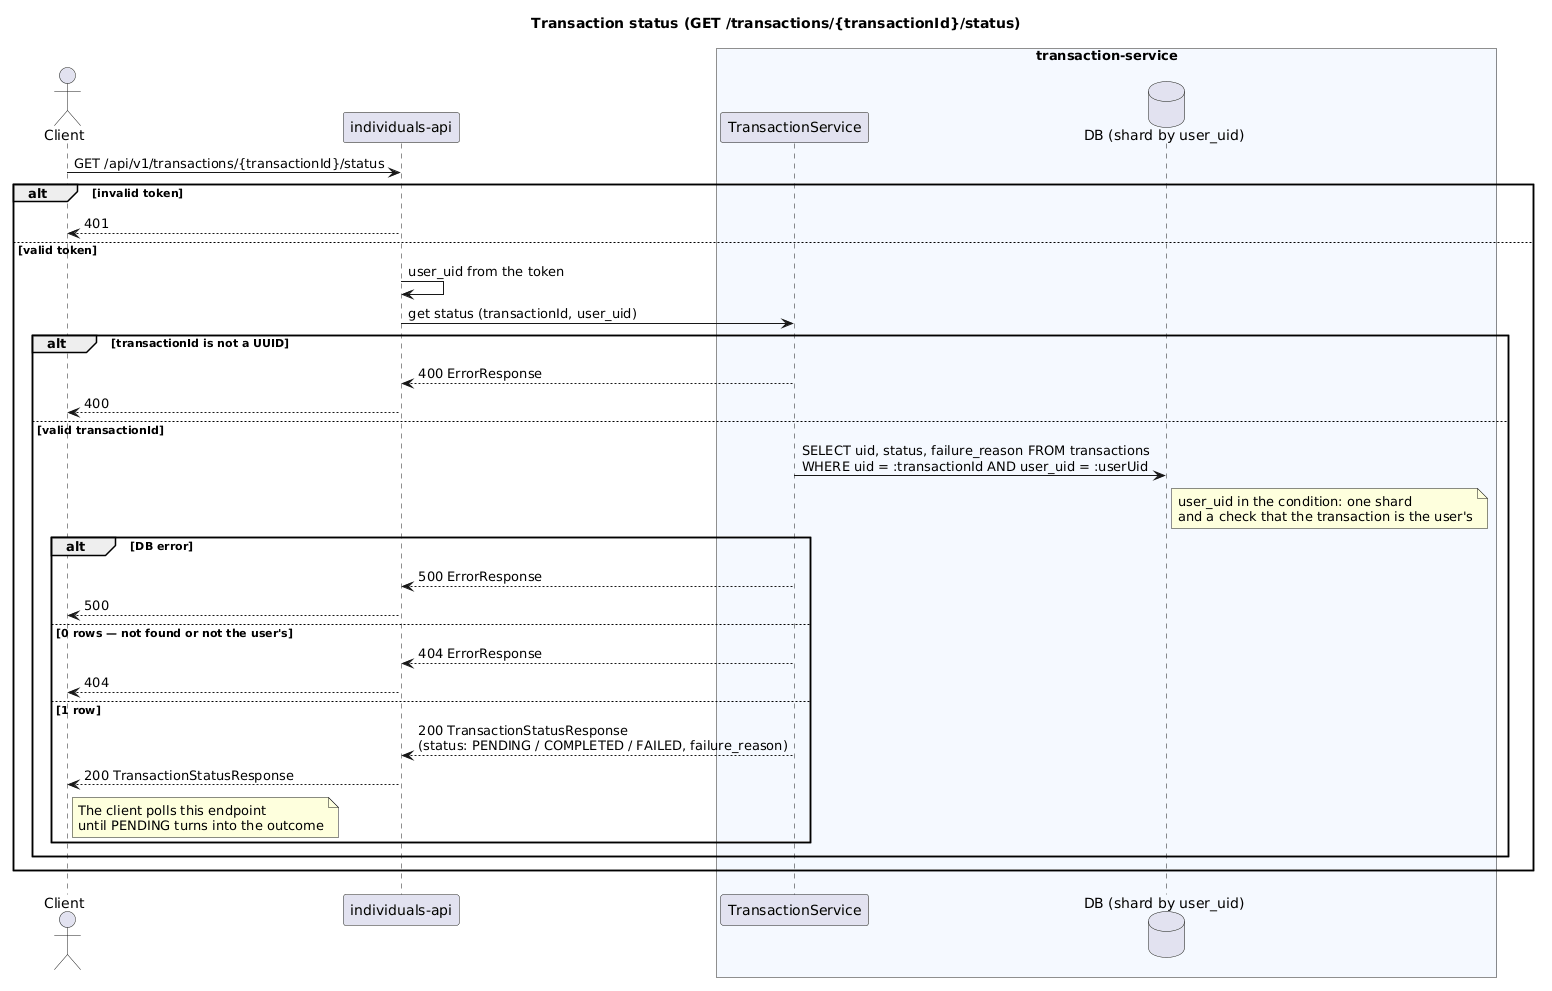
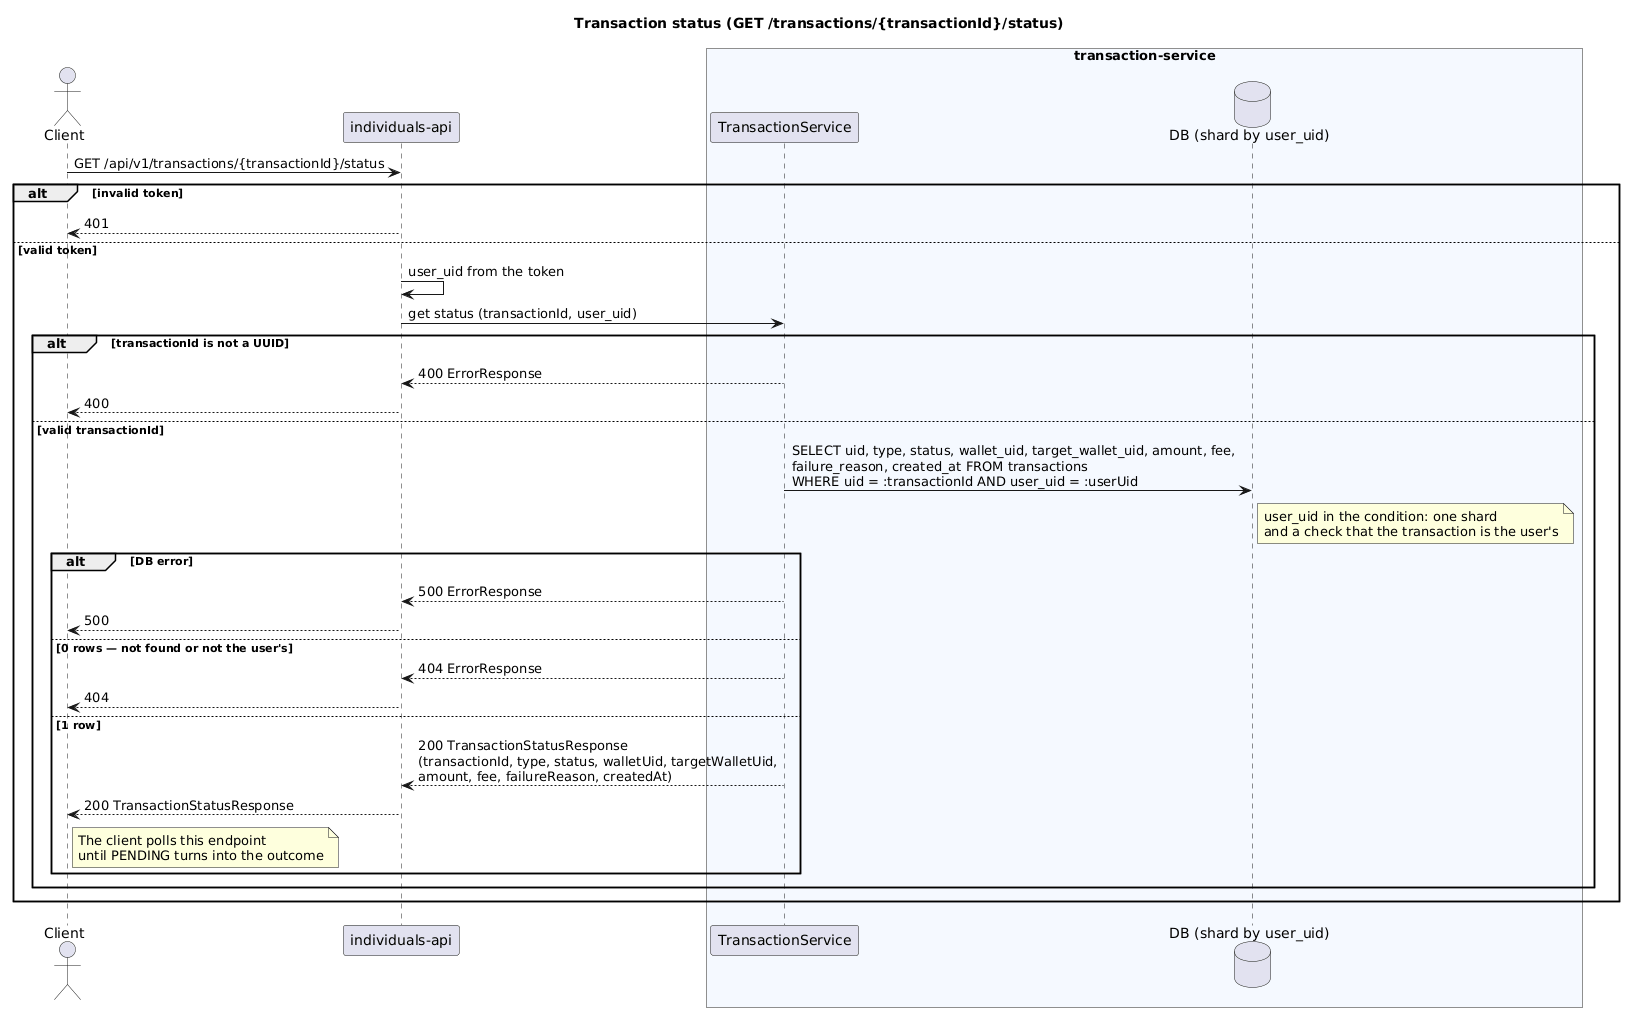
docs: record module 3 decisions in CONTEXT and README

diff --git a/CONTEXT.md b/CONTEXT.md
@@ -628,7 +628,7 @@ payment-platform/              a Git root, NOT a Gradle project
 ├── individuals-api/           the orchestrator; its C4 diagrams in diagrams-c4/
 ├── person-service/            the individual aggregate; also publishes person-service-client -> Nexus
 │                              its C4 diagrams in diagrams-c4/
-└── transaction-service/       wallets and transactions (module 3); a skeleton so far
+└── transaction-service/       wallets and transactions (module 3); its C4 diagrams in diagrams-c4/
 ```
 
 Each module is an independent Gradle build: its own `settings.gradle.kts`,
@@ -1217,6 +1217,95 @@ The API never frees it - that is a deliberate support action.
 - [ ] Your full manual test of the application
 - [ ] Decide the commits and the branches they go to, then push and open the PR
       `module-2-person-service` -> `main`
+
+---
+
+## 8b. Progress — module 3 (transaction-service)
+
+Wallets and their transactions: deposit, transfer, withdrawal. Branch
+`module-3-transaction-service`, PR #2. The teacher approved the design
+(C4 diagrams in `transaction-service/diagrams-c4/`) on 2026-10-22; the code
+follows the sequence diagrams step by step, and a question that comes up
+while coding is decided before it is coded. The next push carries working code.
+
+### Agreed deviations from the module 3 handout
+
+| Handout | Here | Why |
+|---|---|---|
+| Wallets Service is a separate service with its own database (`WalletServiceClient`) | wallets live inside transaction-service, one database | the debit, the transaction row and the event commit in one database transaction |
+| withdrawal: debit, then a separate `PENDING` write | one database transaction: lock the wallet, debit, `PENDING`, event | a crash between two steps would leave money debited with no transaction |
+| confirm writes `PENDING`, then sends to Kafka | the event is written to the table `transaction_events` in the same transaction; `TransactionKafkaProducer` sends it to Kafka | the database and Kafka cannot be written atomically |
+| `DepositCompleted` has no sender | Fake Payment Provider stands in for the external provider: reads `*Requested`, answers `*Completed` or `*Failed` | without it no answer comes and the operation never ends |
+| no failure event for a deposit | `DepositFailed` → `FAILED`, the balance does not change | otherwise a failed deposit stays `PENDING` forever |
+| provider answers carry no `userId` | they carry `userId` from the request | the shard is chosen by `user_uid`: one query to one shard |
+| events in JSON, amounts as `100.0` | Avro + Schema Registry, amounts as `decimal` | the registry refuses an incompatible schema; floating point rounds money |
+| `init` and `confirm` are not linked | `init` returns a `requestId` (stores nothing), the client sends it in `confirm`, which stores it in `transactions.request_id`, unique per `user_uid` | links the two requests in traces and logs; a repeated `confirm` returns the existing transaction instead of a second debit |
+| `userUid` comes from the client (`/wallets/user/{userUid}`, `?userUid=`) | individuals-api fills it from the token; every other operation gets it in the header `X-User-Uid` | otherwise anyone could read others' wallets; the path already holds `walletUid` / `transactionId`, a GET has no body |
+| one path `/transactions/{type}/init` (and `/confirm`) with a `oneOf` body | six paths `/transactions/{deposit,withdrawal,transfer}/{init,confirm}`, each with its own body | the same URLs for the client; different operations are not mixed, each body has its own class and its own validation |
+| `/transactions/{transactionId}/confirm` in the list of functions | `/transactions/{type}/confirm`, as in the contract | `init` creates nothing, so there is no `transactionId` before `confirm` |
+| Feign client in individuals-api | the generated reactive `transaction-service-client`, as `person-service-client` | individuals-api is WebFlux, Feign would block the event loop |
+| ShardingSphere Spring Boot Starter | ShardingSphere-JDBC as the driver (`ShardingSphereDriver` + YAML rules) | the starter was removed in ShardingSphere 5.3 |
+| `client/KafkaProducer`, `client/KafkaConsumer` | `client/TransactionKafkaProducer`, `client/TransactionKafkaConsumer` | Kafka's own classes share those names |
+| port 8082 | 8084 | 8082 is person-service, 8083 is Nexus |
+| transfer between any wallets | transfer between wallets of one user (one shard, one ACID transaction) | the question of transfers between users is with the teacher (saga or XA) |
+
+### Decisions
+
+| Decision | Value |
+|---|---|
+| Web stack | Spring MVC, Spring Data JPA with Hibernate, over ShardingSphere-JDBC - blocking, like person-service. Only the generated `transaction-service-client` is reactive: it runs in individuals-api, never in transaction-service |
+| Sharding | 2 shards, key `user_uid` (`HASH_MOD`); `wallets`, `transactions`, `transaction_events` by `user_uid`, `wallet_types` copied to every shard. Every query carries `user_uid`, except the producer's scan of unsent events, which reads both shards on purpose |
+| Delivery | at-least-once. `TransactionKafkaProducer` (`@Scheduled`) reads `transaction_events WHERE sent_at IS NULL`, sets `sent_at` only after the broker acknowledges, leaves it `NULL` on a failure so the next run retries. The word "outbox" is not used in names |
+| Finalization | `TransactionKafkaConsumer` → `TransactionService.finalize(transactionId, userId)` in one transaction: `UPDATE transactions … WHERE status = 'PENDING'`; 1 row - first processing (deposit credits, failed withdrawal returns `amount + fee`); 0 rows - a repeat (log INFO, nothing changes) or an unknown transaction (exception). An exception → rollback, retry with a pause (`DefaultErrorHandler`), then the DLT |
+| Idempotency of confirm | the first statement of the confirm transaction claims the `requestId`: `INSERT … 'PENDING', :requestId ON CONFLICT (user_uid, request_id) DO NOTHING RETURNING uid`. 1 row - this request owns it; 0 rows - a repeat: same parameters → `200` with the existing transaction and its status, other parameters → `409`. A concurrent second INSERT waits for the first transaction; a rollback frees the `requestId`. ShardingSphere 5.5.3 parses the statement; the concurrent case is still to be checked on the running shards |
+| Request validation | `@Valid` in the controller, before any database transaction: required fields, UUIDs, `amount > 0` with at most 2 decimals; for a transfer `walletUid ≠ targetWalletUid`. Failure → `400`, nothing written |
+| Fee and balance | the fee is computed after the wallet is read and before the check `balance < amount + fee` → `400`, in init and again in confirm (the init terms are not trusted). `fee` is `NULL` on insert and set by `UPDATE` in the same transaction |
+| Locks | confirm of a withdrawal and a transfer reads the wallet(s) `FOR UPDATE`; a transfer locks both in `ORDER BY uid`, so two opposite transfers never deadlock. `FOR UPDATE` guards different operations on one wallet, `requestId` guards repeats of the same one |
+| Balance | never negative: `amount > 0`, the check after the fee, the lock. A `CHECK (balance >= 0)` in the migration as the last guard |
+| Deposit | no balance check; the provider's refusal (not enough on the card, the bank refused) → `DepositFailed` |
+| Soft delete | every wallet read carries `archived_at IS NULL` |
+| Failures | a database error at any step → rollback, `500`, nothing written. A response lost after the commit → the client repeats confirm with the same `requestId` → `200` with the same transaction |
+| Errors | RFC 9457 body with `timestamp`, `error`, `traceId`, `details`, as person-service |
+
+### Contract
+
+`transaction-service/openapi/transaction-service.yaml`, generated with the same
+plugin and settings as person-service: server interfaces `WalletsApi`,
+`TransactionsApi` (implemented by `WalletRestControllerV1`,
+`TransactionRestControllerV1`) and the reactive `transaction-service-client`.
+Avro classes of the events come from `.avsc` files in a later step.
+
+| Item | Value |
+|---|---|
+| DTO names | exactly the handout's, no `Dto` suffix: `CreateWalletRequest`, `WalletResponse`, `DepositInitRequest`, `WithdrawalInitRequest`, `TransferInitRequest`, `TransactionInitResponse`, `DepositConfirmRequest`, `WithdrawalConfirmRequest`, `TransferConfirmRequest`, `TransactionConfirmResponse`, `TransactionStatusResponse`, `ErrorResponse` |
+| `TransactionInitResponse` | `amount`, `fee`, `total`, `requestId` |
+| `TransactionConfirmResponse` | `transactionId`, `status` |
+| `TransactionStatusResponse` | the same in the status and in the search: `transactionId`, `type`, `status`, `walletUid`, `targetWalletUid`, `amount`, `fee`, `failureReason`, `createdAt` |
+| `amount` checks | `> 0` from `exclusiveMinimum`; at most 2 decimals - the standard `@Digits(fraction = 2)` put on the field through `x-field-extra-annotation` |
+| `walletUid ≠ targetWalletUid` | our own class-level `@DifferentWallets` with a `ConstraintValidator` in the `validation` package, put on `TransferInitRequest` and `TransferConfirmRequest` through `x-class-extra-annotation`. Without it the same wallet twice reads as one row and would answer `404` |
+
+### Done
+
+- [x] Module skeleton: `com.dezxxx.transaction`, Spring MVC, port 8084, unit and
+      integration test tasks, `gradlew` executable
+- [x] C4 diagrams: container, component and eight sequence diagrams (deposit,
+      transfer, withdrawal, wallet create, wallet by id, a user's wallets,
+      transaction status, search). Every failure branch, transaction boundaries
+      and what is written to the database. English in the repository
+- [x] The design review: every comment of the teacher answered in the diagrams;
+      the design is approved
+- [x] Contract decisions above
+
+### Next
+
+- [ ] The contract `openapi/transaction-service.yaml` and its generation
+- [ ] Migrations, ShardingSphere-JDBC over two PostgreSQL shards; check
+      `INSERT … ON CONFLICT DO NOTHING RETURNING` with two concurrent inserts
+- [ ] Wallets, then init / confirm of each operation, following the diagrams
+- [ ] Kafka (KRaft) + Schema Registry, Avro events, producer, consumer, DLT;
+      Fake Payment Provider
+- [ ] Observability, tests, Postman collection; `transaction-service-client` in
+      individuals-api
 
 ---
 

diff --git a/README.md b/README.md
@@ -136,7 +136,7 @@ is in §5 of `CONTEXT.md`.
 payment-platform/
 ├── individuals-api/      the orchestrator — module 1's deliverable
 ├── person-service/       the individual aggregate (module 2); publishes person-service-client to Nexus
-├── transaction-service/  wallets and transactions (module 3), port 8084; a skeleton so far
+├── transaction-service/  wallets and transactions (module 3), port 8084; design approved, code in progress
 ├── infra/                prometheus, tempo, loki, alloy, grafana provisioning
 ├── postman/
 └── docker-compose.yml
@@ -159,7 +159,7 @@ payload.
 |---|---|
 | [`CONTEXT.md`](CONTEXT.md) | The working document: decisions, rules, the registration flow, progress. The long read. |
 | [`CONTEXT.ru.md`](CONTEXT.ru.md) | Russian mirror. English wins if the two disagree. |
-| [`individuals-api/diagrams-c4/`](individuals-api/diagrams-c4), [`person-service/diagrams-c4/`](person-service/diagrams-c4) | C4 diagrams of each service: container, component and sequence. PlantUML in `uml/{en,ru}`, a rendered picture of each in `png/{en,ru}`. |
+| [`individuals-api/diagrams-c4/`](individuals-api/diagrams-c4), [`person-service/diagrams-c4/`](person-service/diagrams-c4), [`transaction-service/diagrams-c4/`](transaction-service/diagrams-c4) | C4 diagrams of each service: container, component and sequence. PlantUML in `uml/{en,ru}`, a rendered picture of each in `png/{en,ru}`; transaction-service keeps English only. |
 | [`postman/`](postman) | Two Postman collections. `individuals-api`: two users through every endpoint, the failures, Swagger and metrics, with the tokens carried between requests for you - import it, press Run on a fresh stack. `person-service`: one individual through all six operations, every RFC 9457 failure, the soft delete and the compensation individuals-api calls; each run takes a fresh email, so it runs again on the same database. |
 
 ## Status
@@ -174,5 +174,6 @@ Module 1 is not finished. What is honest as of today:
 | 📮 Postman | `postman/individuals-api.postman_collection.json` — two users, 20 requests, tokens captured automatically, 52 assertions |
 | 📦 Nexus | In the compose file. person-service publishes `person-service-client` into it, and individuals-api resolves the client from it by coordinates |
 | ✅ Module 2 | **`person-service`**: the contract (`/api/v1/individuals`, six operations, RFC 9457 errors), Flyway migrations, JPA, transactions, the Envers audit, Swagger UI, metrics, JSON logs and traces with a Grafana dashboard, a Docker image in compose, tests, and `person-service-client` in Nexus. individuals-api registers through it, with address and personal data, and compensates a failed Keycloak part by deleting the individual. Done, merged into `main` |
+| 🚧 Module 3 | **`transaction-service`**: wallets, deposit, transfer and withdrawal over two PostgreSQL shards (ShardingSphere-JDBC), deposit and withdrawal finished through Kafka. The design - C4 diagrams with every failure branch - is approved; the code is in progress on `module-3-transaction-service` |
 
-The ordered to-do lists live in §8 (module 1) and §8a (module 2) of `CONTEXT.md` and are kept current.
+The ordered to-do lists live in §8 (module 1), §8a (module 2) and §8b (module 3) of `CONTEXT.md` and are kept current.
